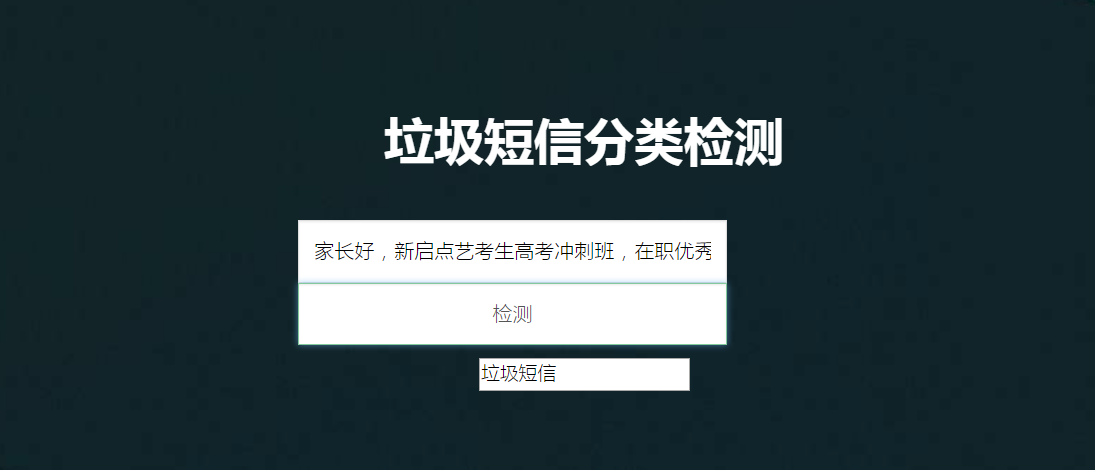
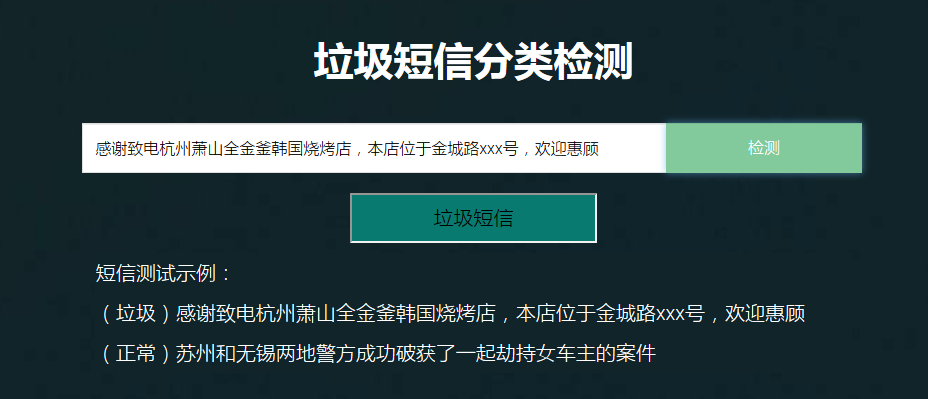
html_uodate

Changed region(s): [[0.0625, 0.2406, 0.9375, 0.9323], [0.3125, 0.0902, 0.6875, 0.2105]]

diff --git a/5_Django_Message/templates/index.html b/5_Django_Message/templates/index.html
@@ -19,7 +19,7 @@
 
         <!--For Plugins external css-->
         <link rel="stylesheet" href="static/css/plugins.css" />
-        <!--&lt;!&ndash;<link rel="stylesheet" href="static/css/roboto-webfont.css" />&ndash;&gt;    找不到此文件-->
+        <link rel="stylesheet" href="static/css/roboto-webfont.css" />
 
         <!--Theme custom css -->
         <link rel="stylesheet" href="static/css/style.css">
@@ -44,11 +44,11 @@
                            <p>网络数据挖掘学习使用</p>
                         </div>
                         <div class="col-md-6">
-                          
+
                         </div>
                     </div>
                 </div>
-            </div> <!-- /container -->       
+            </div> <!-- /container -->
         </section>
 
         <!--Home page style-->
@@ -61,47 +61,55 @@
                                 <div class="home-content">
 
                                     <h2>垃圾短信分类检测</h2>
-                                    
+
                                     <div class="row">
-                                        <div class="col-md-6 col-md-offset-3 col-sm-12 col-xs-12">
+                                        <div class="col-md-10 col-md-offset-1 col-sm-12 col-xs-12">
                                             <div class="home-contact">
                                                 <div class="input-group">
-												<form id = "messageTest">
-                                                    <input id = "testText" name="testText" type="text" class="form-control" placeholder="请粘贴短信内容">
-                                                    <input id= "submit"   type="button" class="form-control" value="检测">
-												</form>
+												<div id = "messageTest">
+                                                    <input id = "testText" type="text" class="form-control" placeholder="请粘贴短信内容">
+                                                    <input id= "submit"  name= "submit" type="submit" class="form-control" value="检测">
+												</div>
                                                 </div><!-- /input-group -->
-											
+
                                             </div>
-											
+
                                         </div>
                                     </div>
-                                    <div class="row">
-									    <div class = "home-contact" >
-									    <div class ="col-md-6 col-md-offset-3 col-sm-12 col-xs-12" >
-								
-									    <input id = "result" type="text" class="label-control" placeholder="检测结果" readonly="true">
-									    </div>
-									    </div>
-                                    </div>
+									<div class = "home-contact" >
+									<div class ="col-md-10 col-md-offset-1 col-sm-12 col-xs-12" >
+
+									<input id = "result" type="text" class="label_control" placeholder="这里显示检测结果" readonly="true"><br>
+
+									</div>
+
+									</div>
+									<div class="col-md-10 col-md-offset-1 col-sm-12 col-xs-12">
+										<input id = "testLabel" type="text" class="example-control"   value="短信测试示例：">
+										<input id = "testJunk" type="text" class="example-control" readonly="true"  value="（垃圾）感谢致电杭州萧山全金釜韩国烧烤店，本店位于金城路xxx号，欢迎惠顾">
+										<input id = "testNormal" type="text"  class="example-control" readonly="true" value="（正常）苏州和无锡两地警方成功破获了一起劫持女车主的案件">
+									</div>
+
+
 
 
                                 </div>
                             </div>
                         </div>
                     </div>
-                </div>			
+                </div>
             </div>
         </header>
-		
+
 
         <script src="static/js/vendor/jquery-1.11.2.min.js"></script>
         <script src="static/js/vendor/bootstrap.min.js"></script>
+
         <script src="static/js/plugins.js"></script>
         <script src="static/js/modernizr.js"></script>
         <script src="static/js/main.js"></script>
-        <!--注意 jquery的JS引用顺序在此之前-->
-        <script type="text/javascript">
+
+		<script type="text/javascript">
         $(document).ready(function() {
             $("#submit").click(function() {
                 var message = $("#testText").val();

diff --git a/5_Django_Message/static/css/style.css b/5_Django_Message/static/css/style.css
@@ -565,7 +565,7 @@ textarea::-ms-input-placeholder
     -ms-background-size:cover;
 }
 .home-wrapper{
-    padding:180px 0px;
+    padding:225px 0px;
     overflow:hidden;
 }
 .home-content h2{
@@ -590,6 +590,19 @@ textarea::-ms-input-placeholder
     width: 75%;
     margin-bottom: 30;
     height: 50px;
+
+}
+
+.example-control {
+    position: relative;
+    z-index: 0;
+    float: left;
+    width: 100%;
+    height: 40px;
+	background: #102429;
+	color: #fff;
+	border-width: 0px;
+	font-size: 20px;
 
 }
 
@@ -636,6 +649,17 @@ textarea::-ms-input-placeholder
     margin: 10px auto;
     padding-bottom: 20px;
 }
+
+/* label_control*/
+.label_control {
+	height: 50px;
+	background-color: #087A70;
+	text-align: center;
+	color: #DC143C;
+	font-size: 20px;
+	margin: 10px auto;
+}
+
 
 /* features  section */
 
